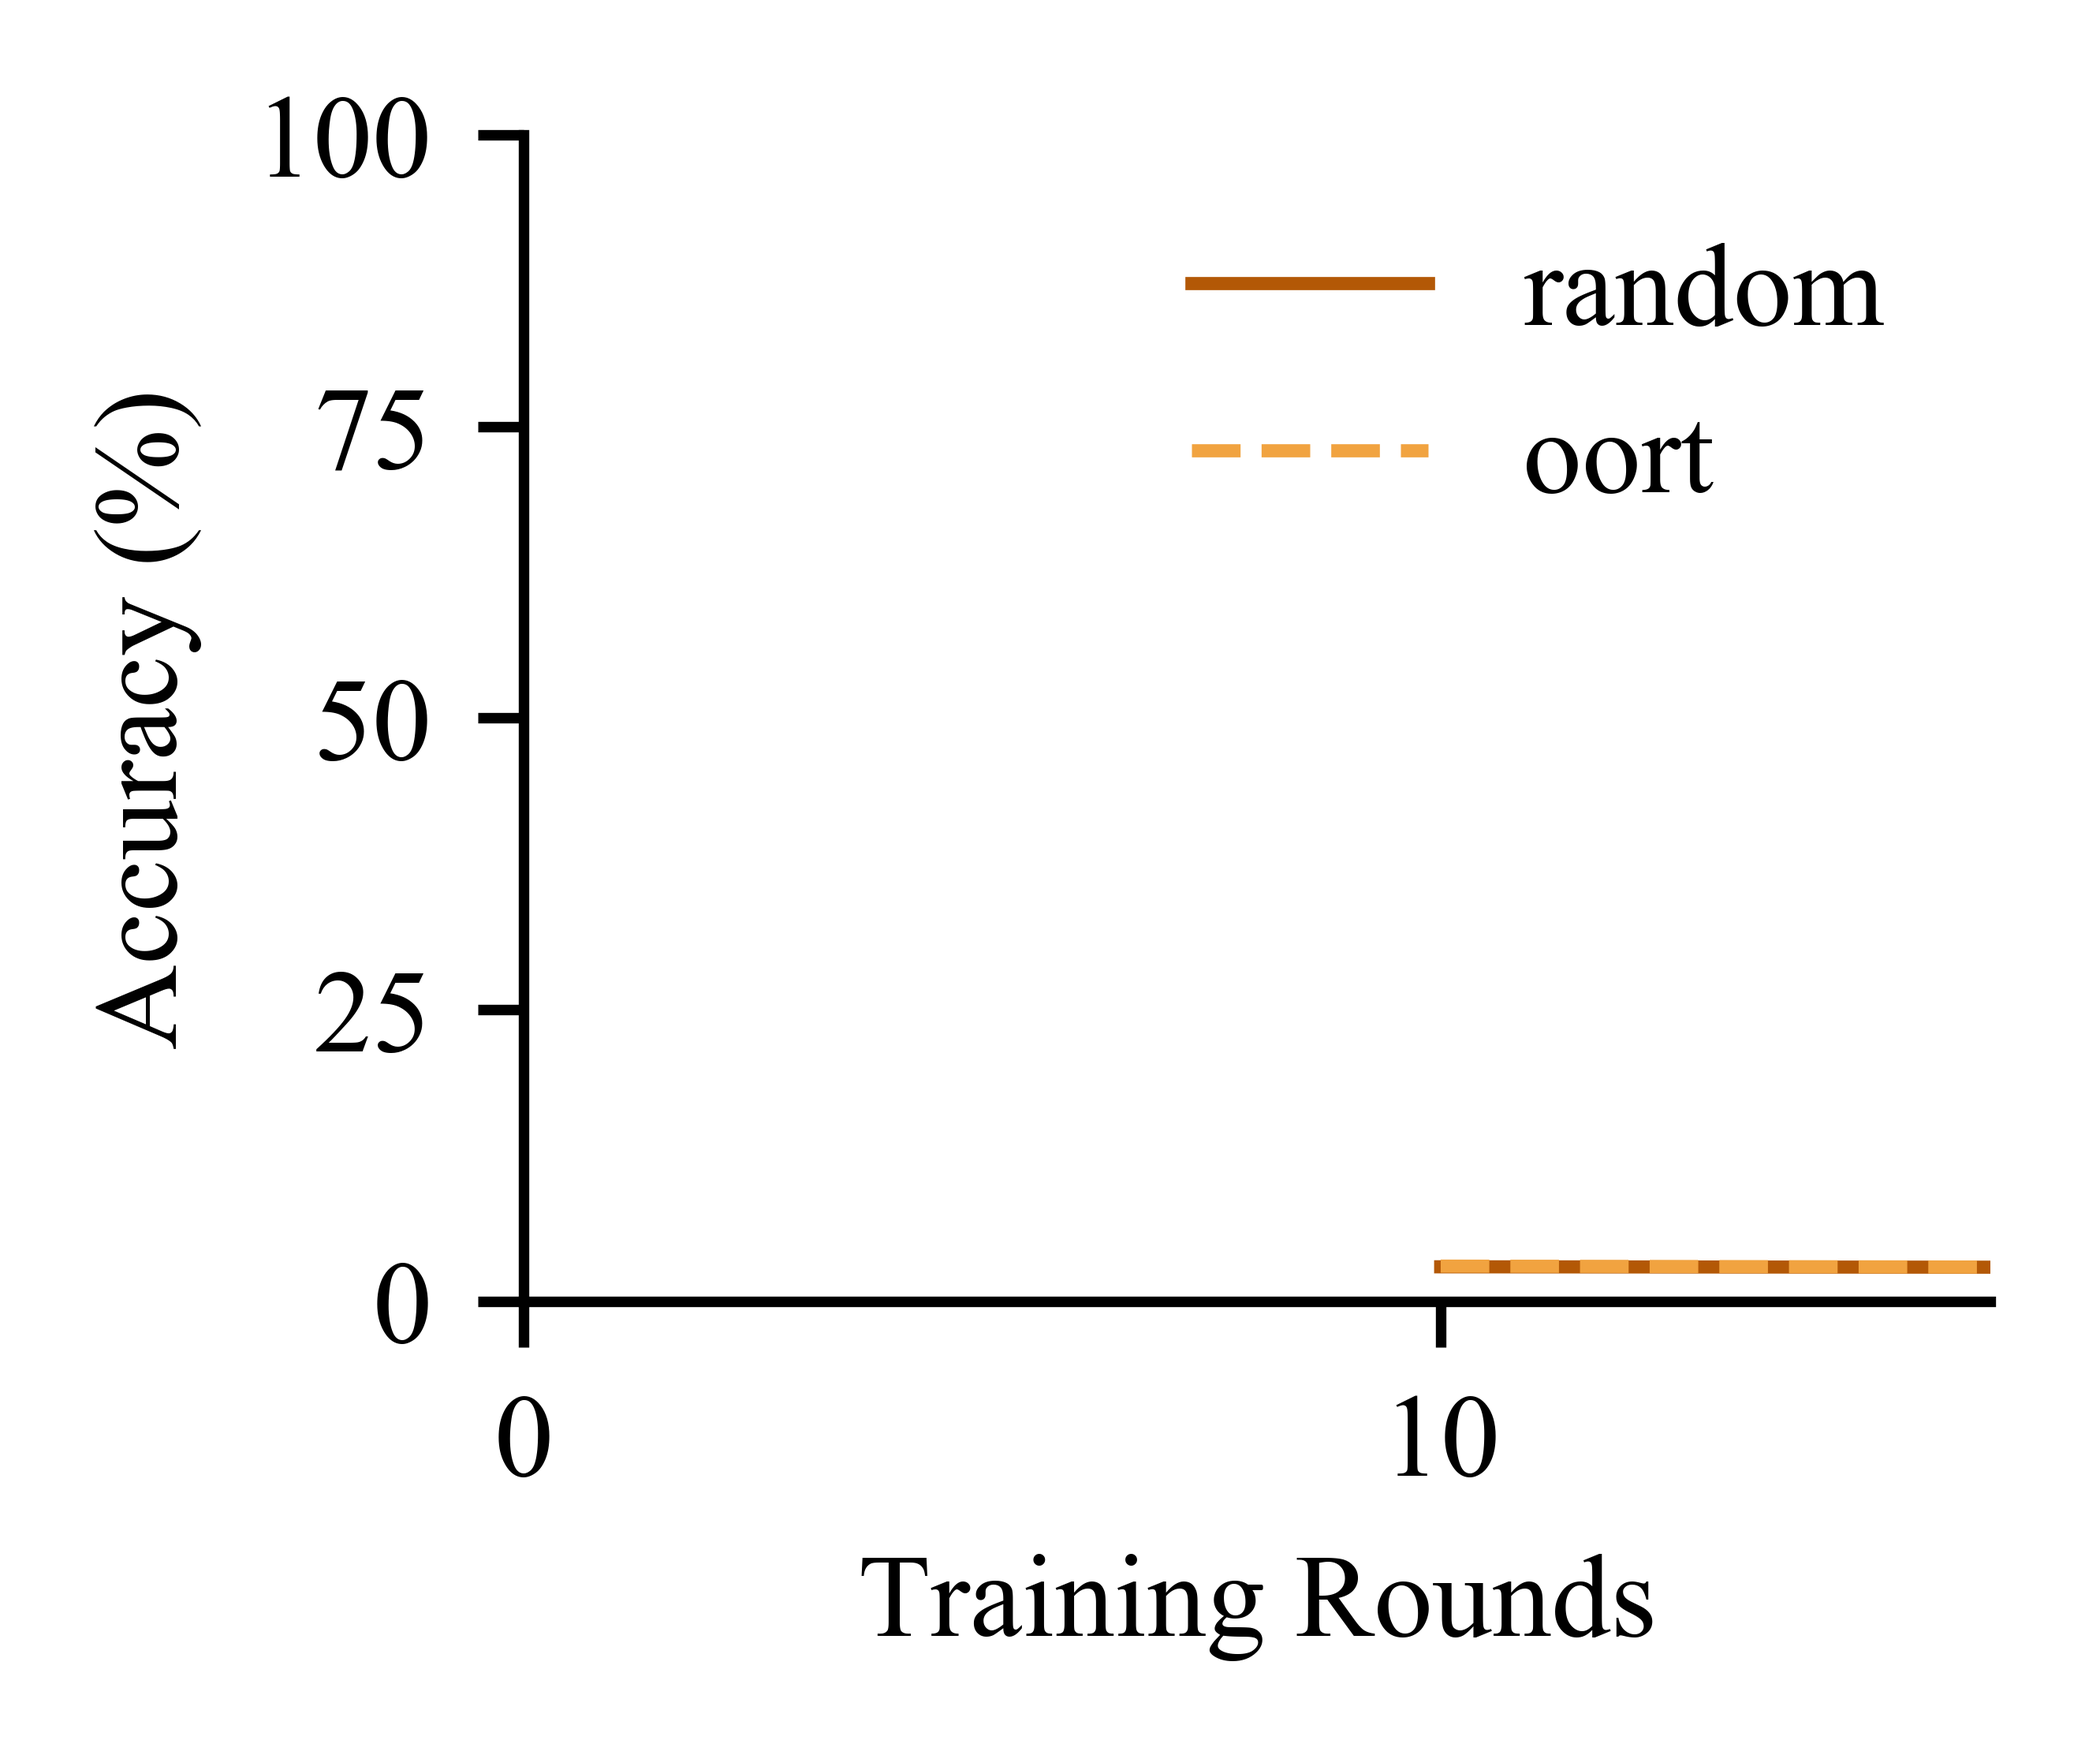
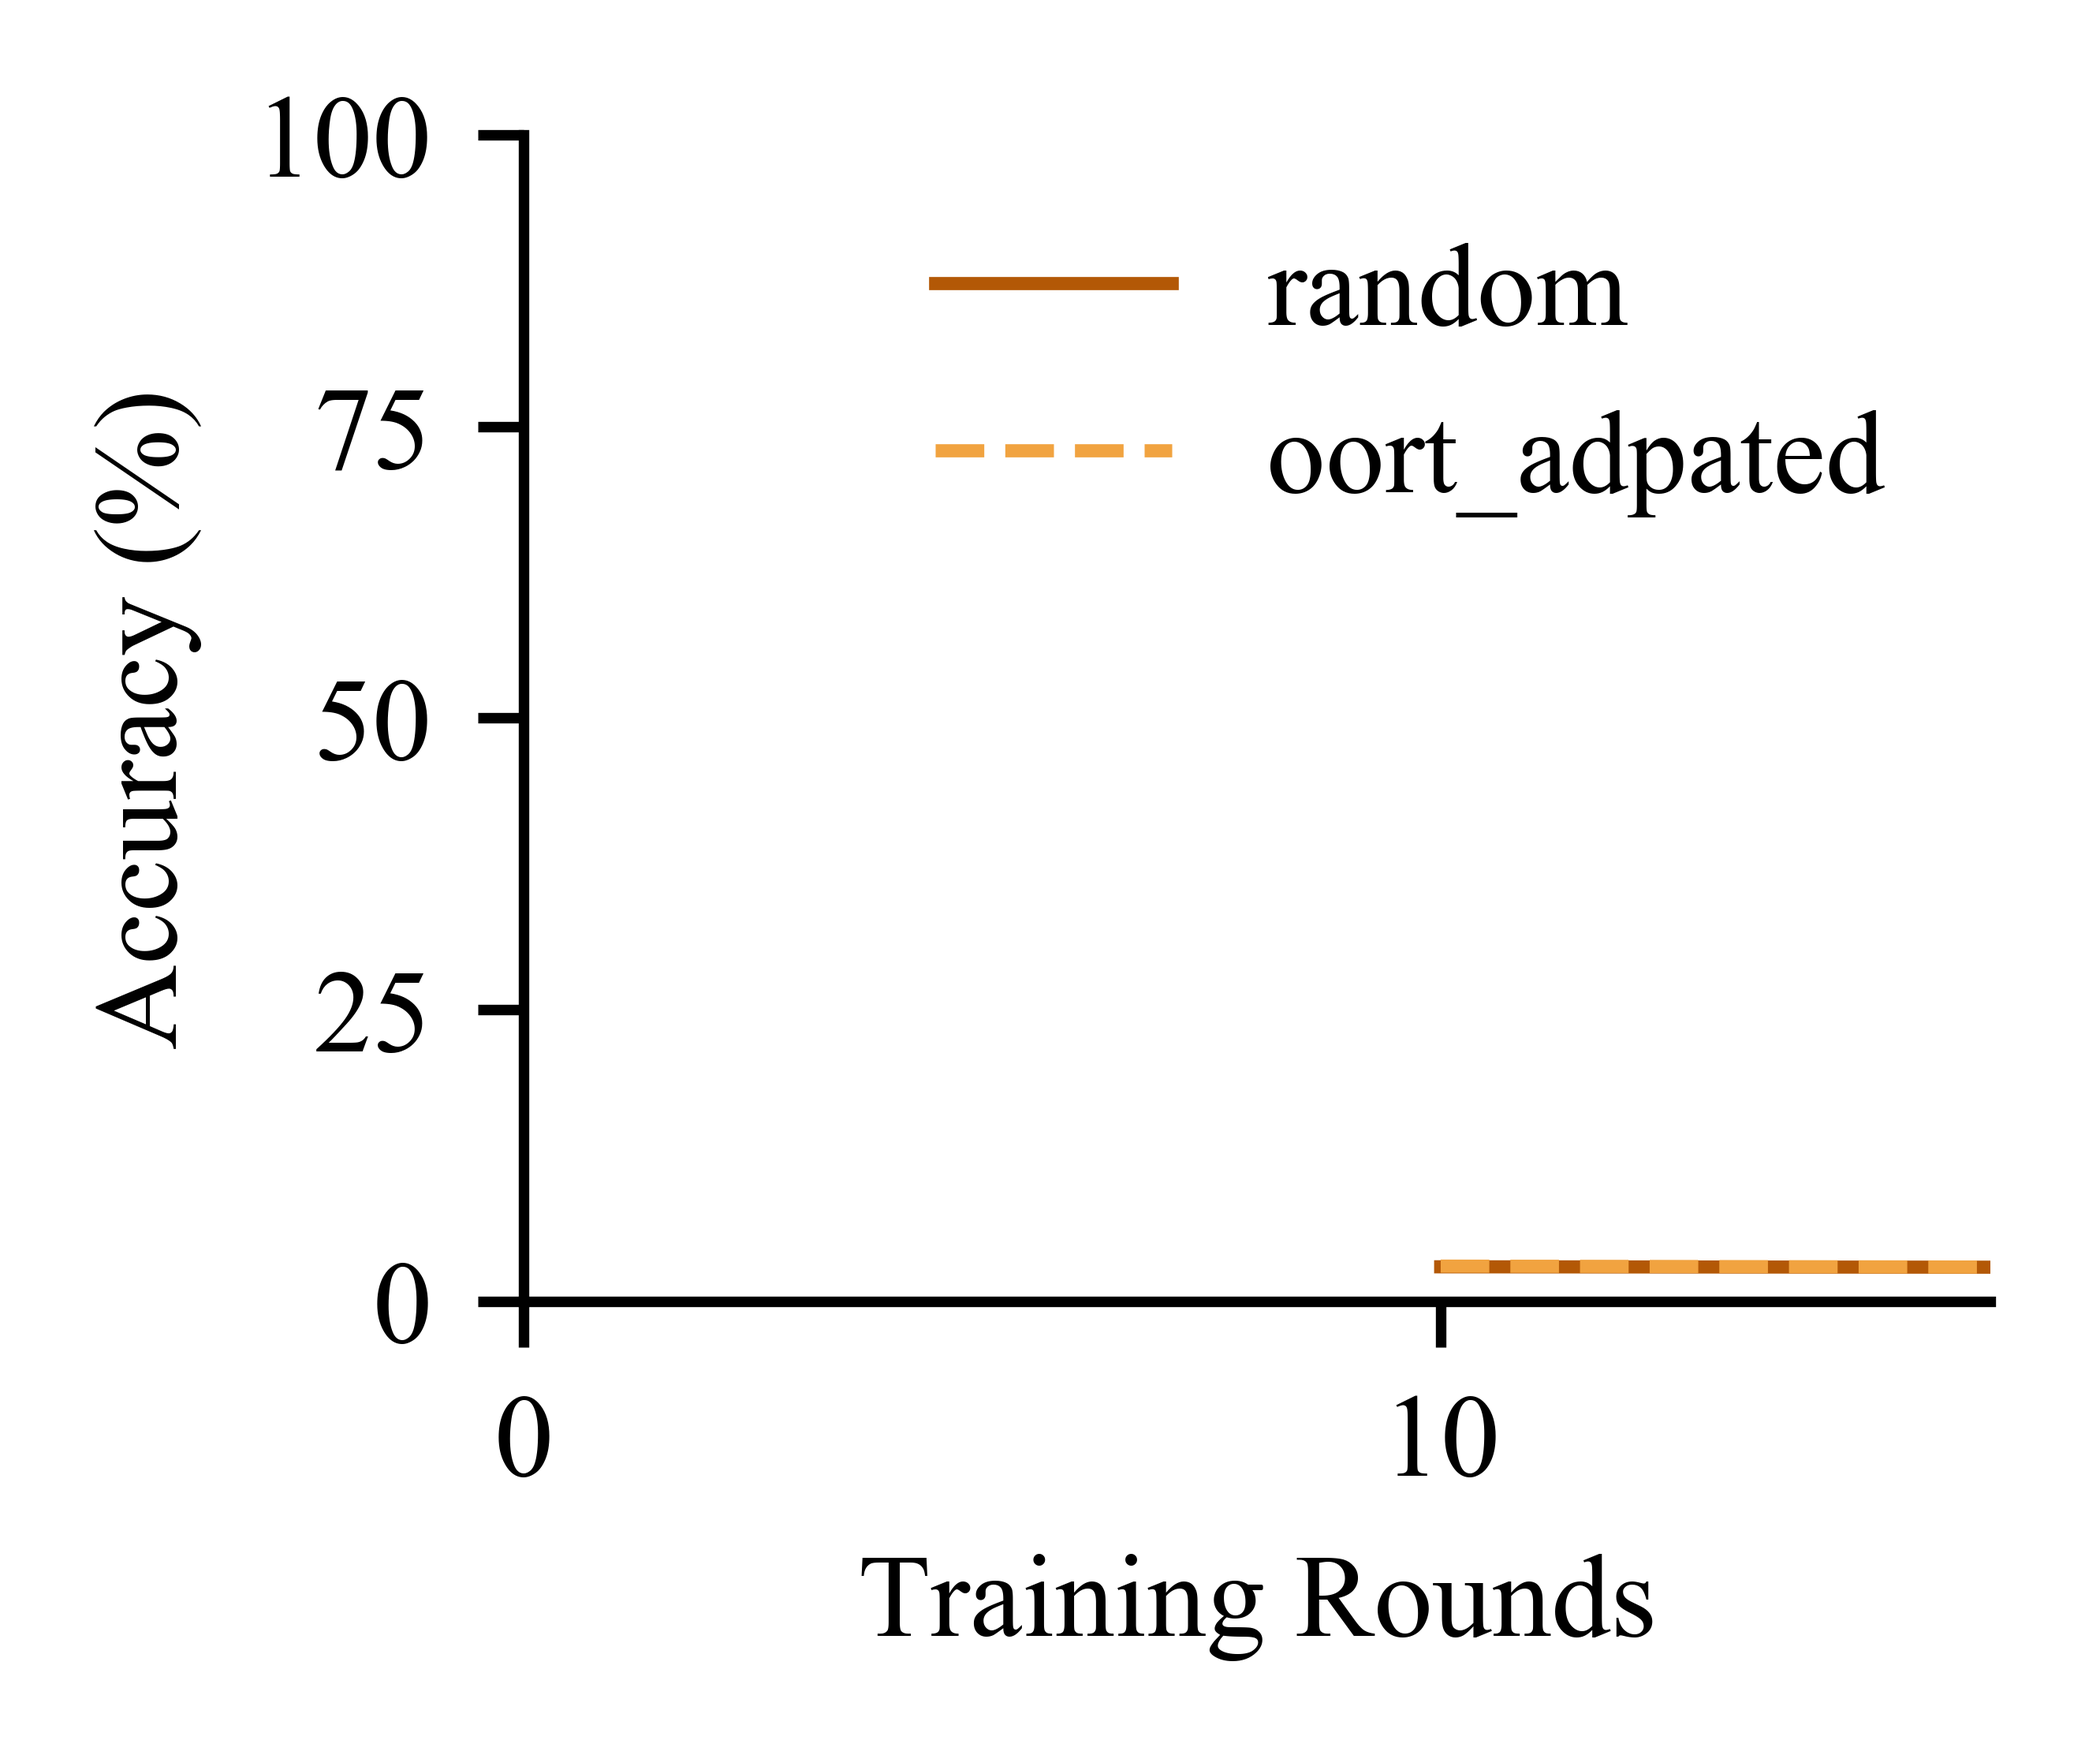
ns

Changed region(s): [[0.4342, 0.2481, 0.8994, 0.3101], [0.4342, 0.1551, 0.8994, 0.1861]]

diff --git a/core/evals/my_perf.py b/core/evals/my_perf.py
@@ -55,8 +55,8 @@ def run(task_prefix):
     task_dict = {
         # f"centralized_{personalized}_all_test": "centralized",
         f"random_{personalized}_all_test": "random",
-        f"oort_{personalized}_all_test": "oort",
-        # f"oort_adapted_{personalized}_all_test": "oort_adpated",
+        # f"oort_{personalized}_all_test": "oort",
+        f"oort_adapted_{personalized}_all_test": "oort_adpated",
         # f"greedy_{personalized}_all_test": "greedy"
     }
     label_list = []
